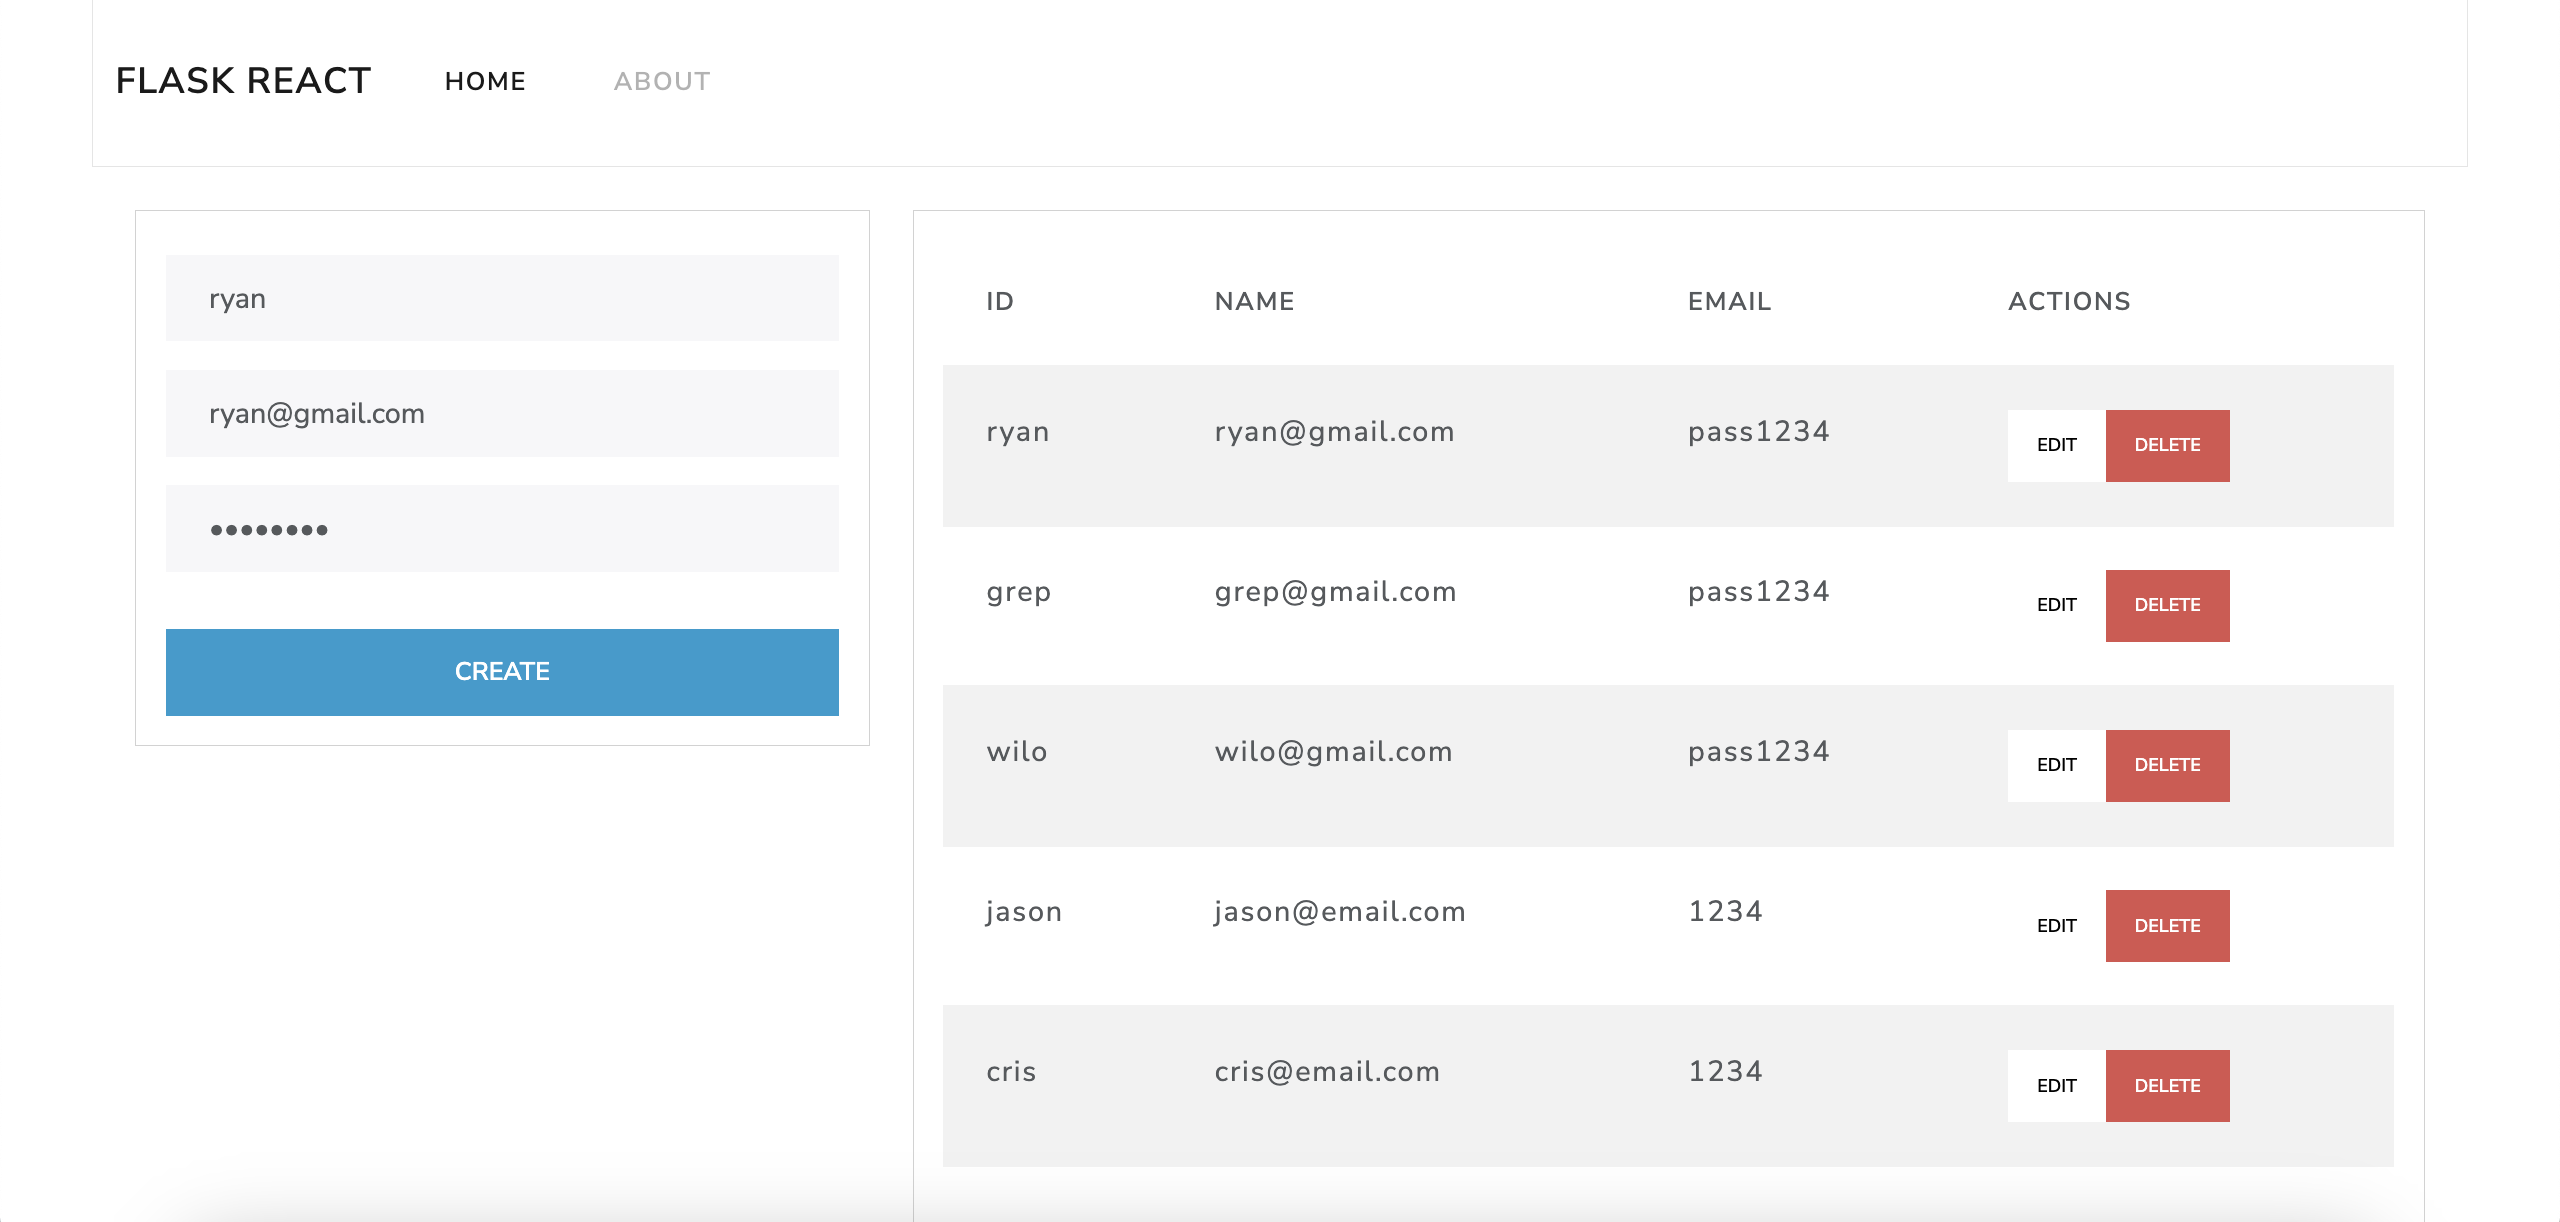
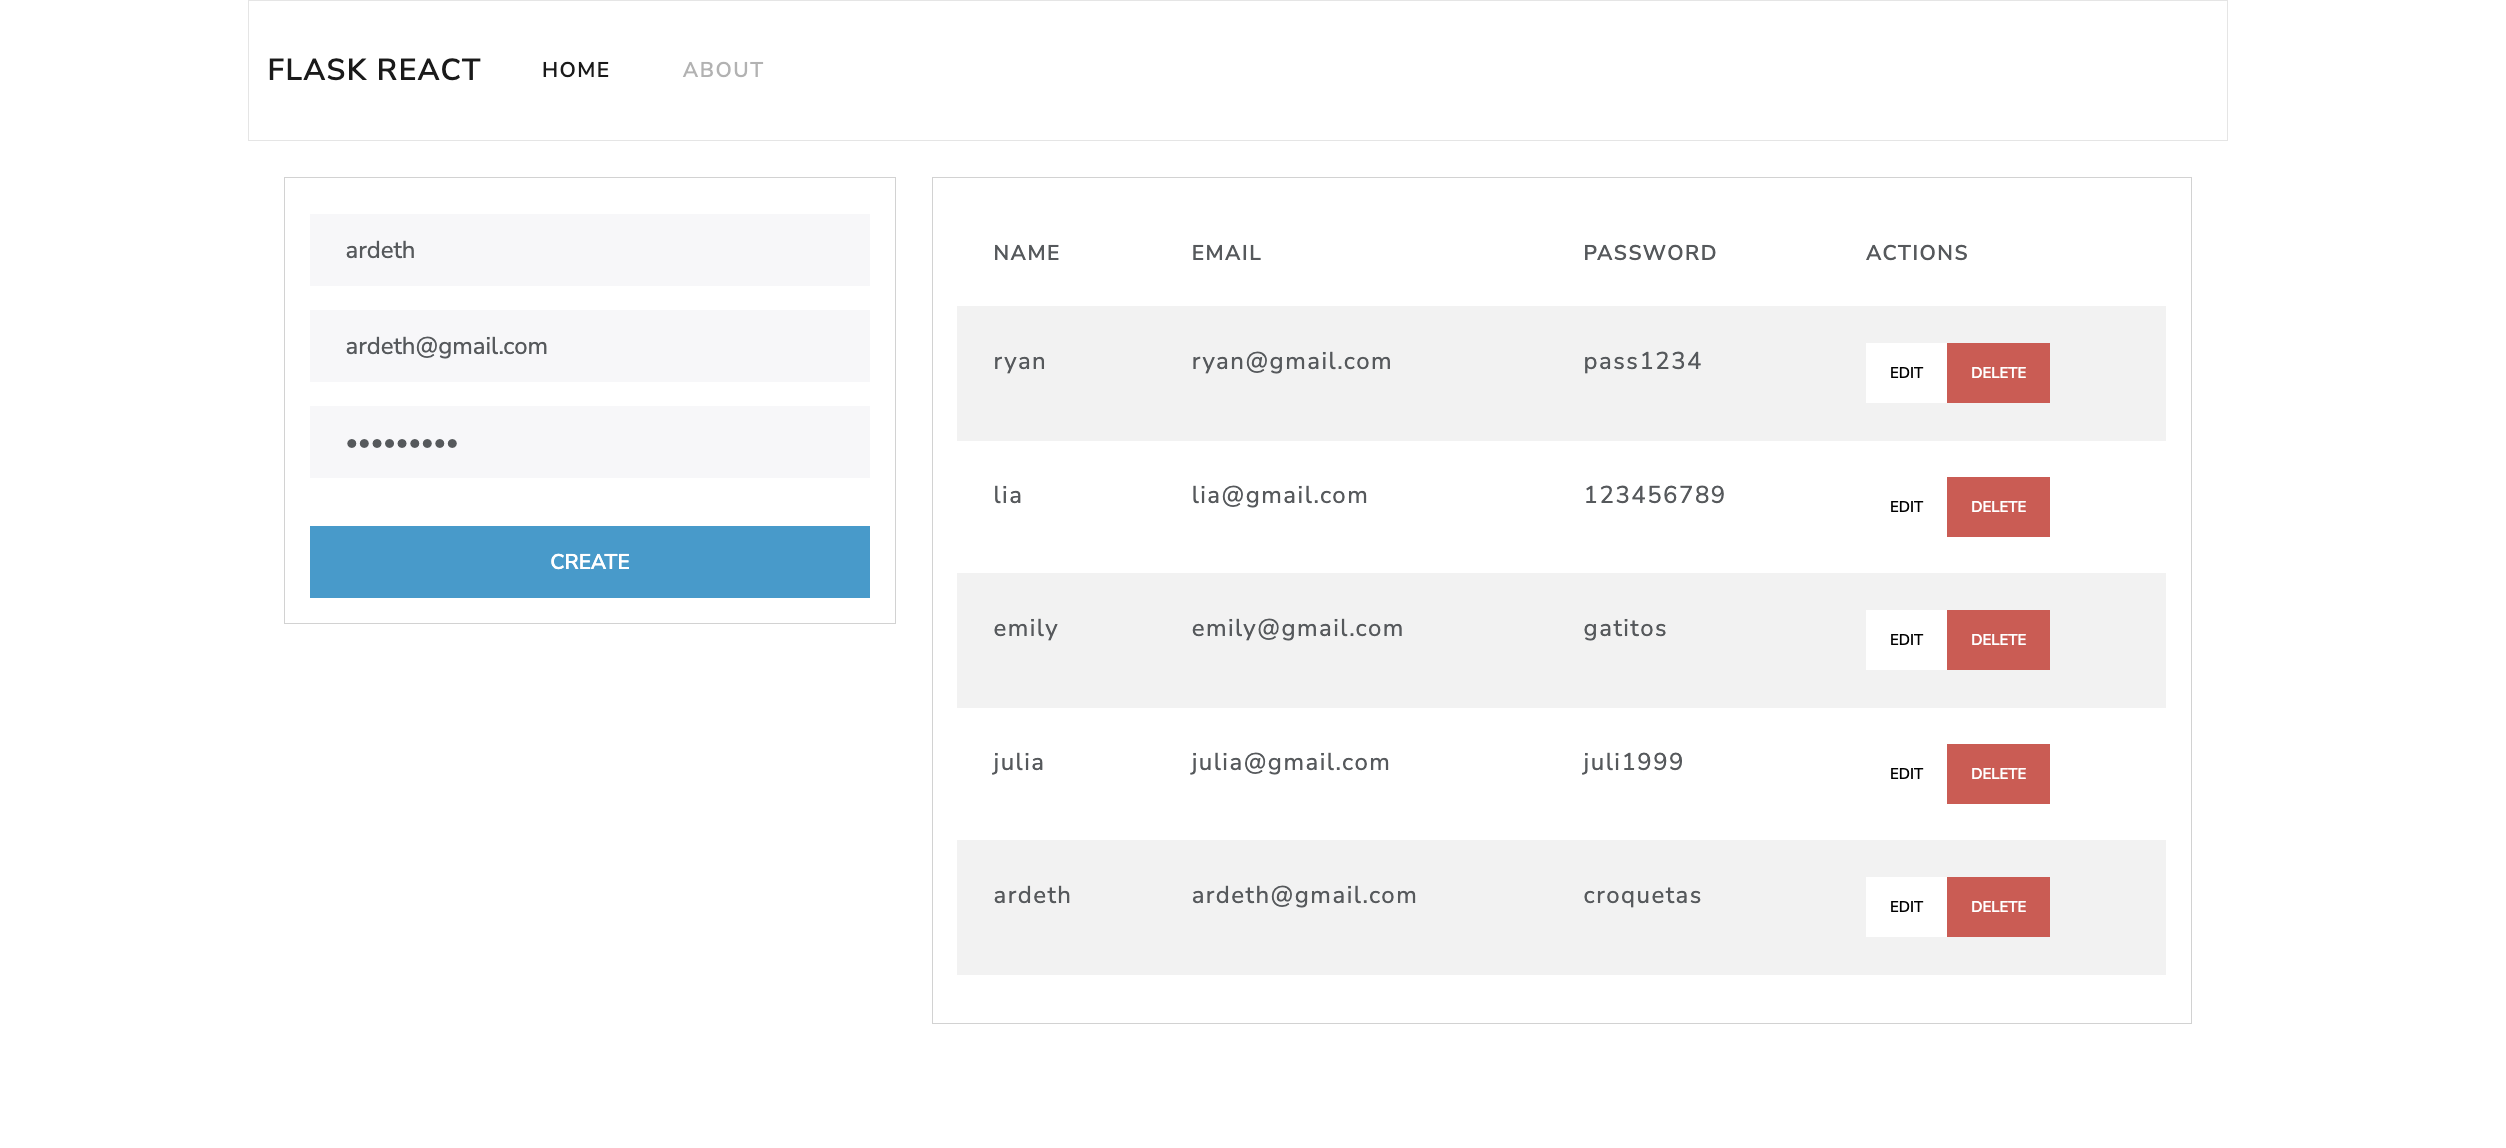
📄 [UPDATE] README.md

diff --git a/frontend/src/pages/Users.jsx b/frontend/src/pages/Users.jsx
@@ -146,9 +146,9 @@ export const Users = () => {
                         <table className="table table-striped">
                             <thead>
                                 <tr>
-                                    <th>ID</th>
                                     <th>Name</th>
-                                    <th>email</th>
+                                    <th>Email</th>
+                                    <th>Password</th>
                                     <th>Actions</th>
                                 </tr>
                             </thead>

diff --git a/README.md b/README.md
@@ -2,8 +2,8 @@
     src="./docs/images/flaskreact.png"
 />
 
-### Python + React
-A fullstack application for managing users. Backend was developed with Flask y MongoDB and the Frontend, uses React with Bootstrap. 
+### 🐍⚛ Python + React
+A fullstack application for managing users. Backend was developed with Flask and MongoDB, and the Frontend, uses React with Bootstrap. 
 
 
 ### ⚡ Backend
@@ -32,7 +32,7 @@ npm run dev
 ```
 
 ### 💚 Mongo + Mongo-Express
-Mongo can be run with Docker. I also added Mongo Express as support.
+MongoDB can be run with Docker. I also added Mongo Express as support. Create an `.env` file, follwing `.env.example` and then run:
 ```
 docker-compose up -d
 ```
